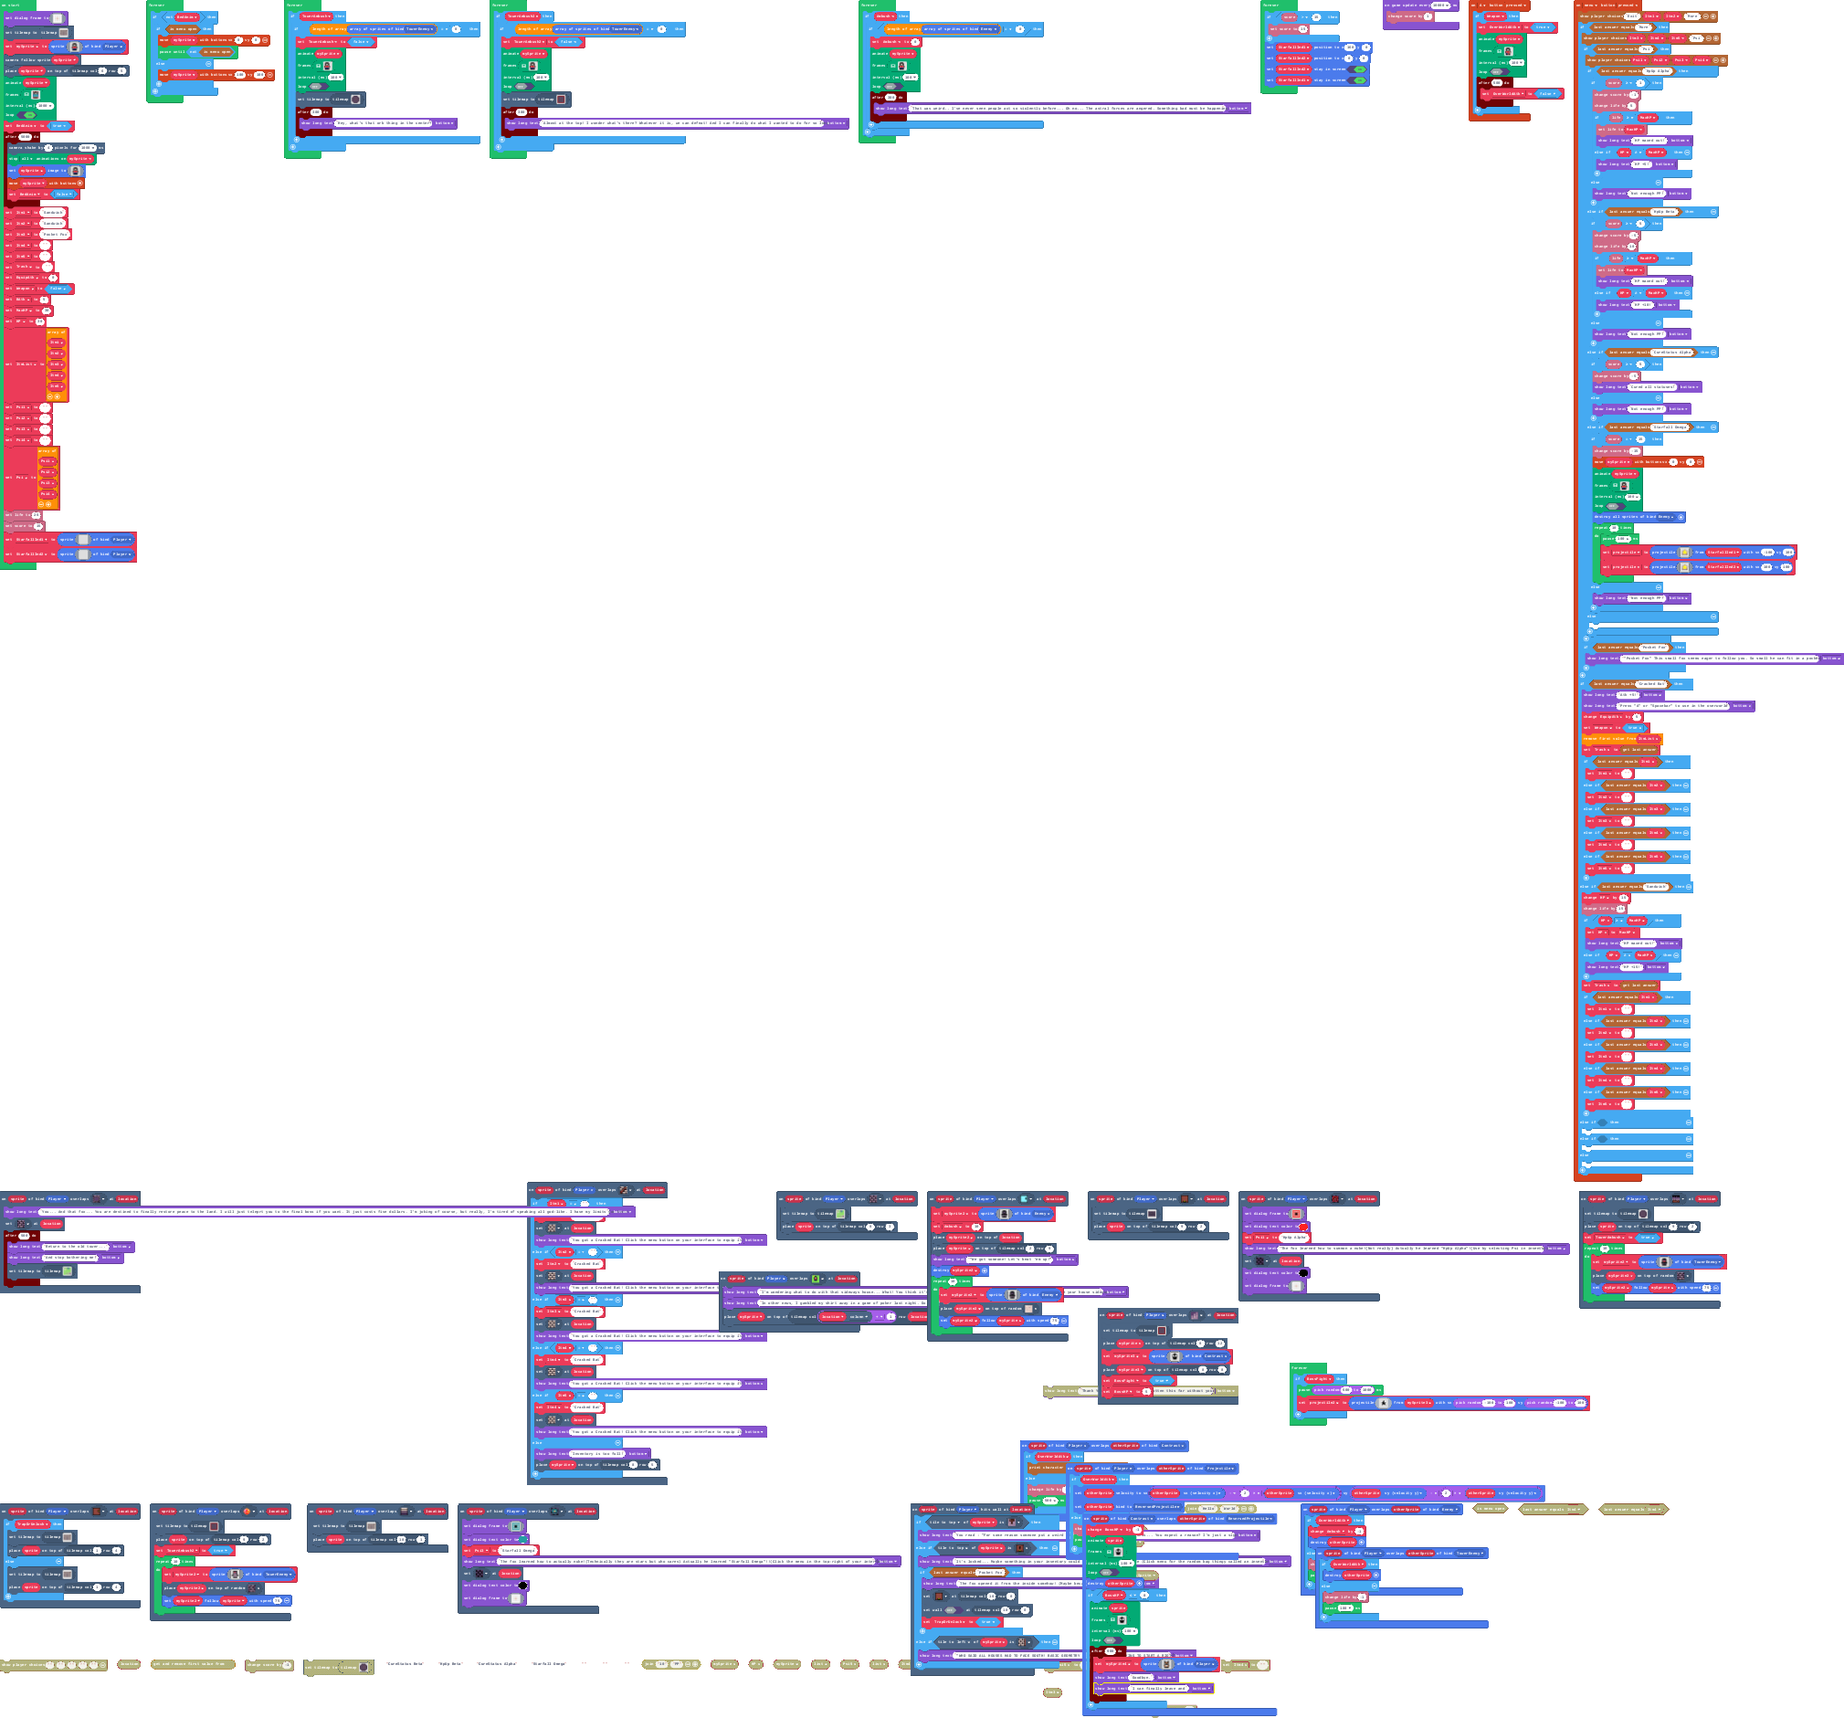
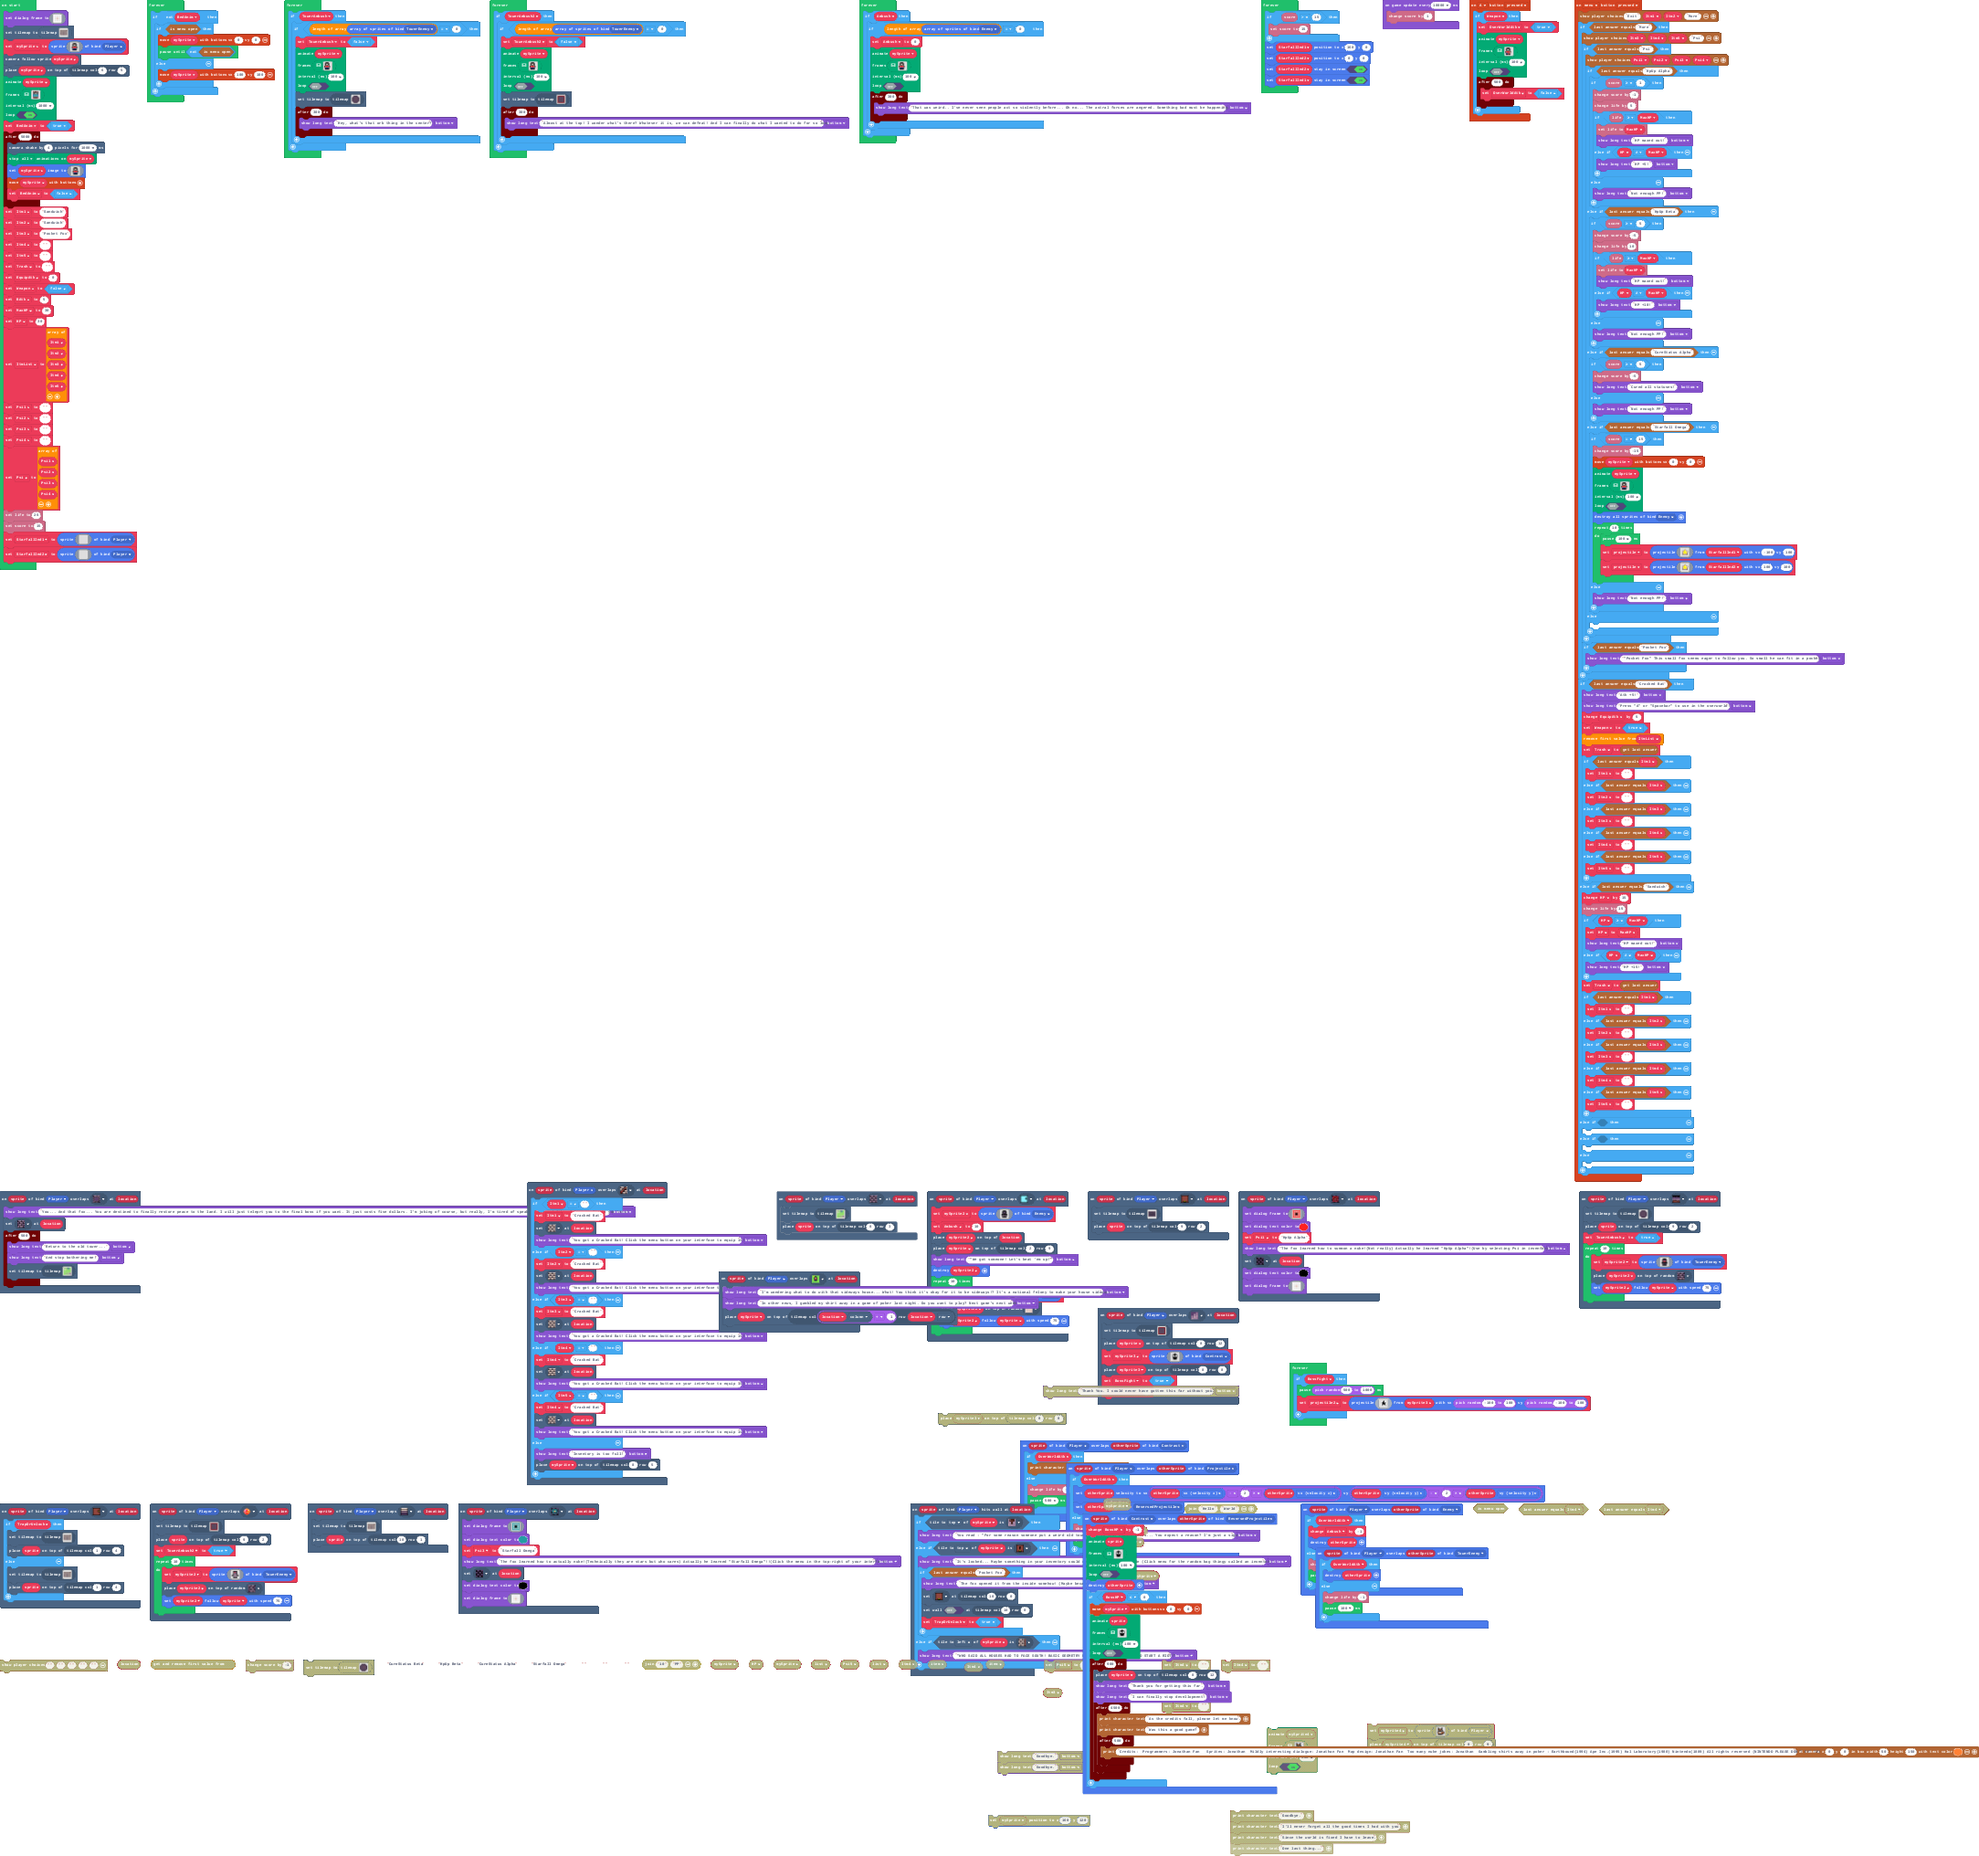
Update pxt.json, main.blocks, main.ts, tilemap.g.jres, tilemap.g.ts

Changed region(s): [[0.0, 0.0, 1.0, 1.0]]

diff --git a/main.ts b/main.ts
@@ -388,6 +388,7 @@ sprites.onOverlap(SpriteKind.Contrast, SpriteKind.ReversedProjectile, function (
     )
     sprites.destroy(otherSprite)
     if (BossHP <= 0) {
+        controller.moveSprite(mySprite, 0, 0)
         animation.runImageAnimation(
         sprite,
         [img`
@@ -565,20 +566,16 @@ sprites.onOverlap(SpriteKind.Contrast, SpriteKind.ReversedProjectile, function (
         false
         )
         timer.after(900, function () {
-            mySprite4 = sprites.create(img`
-                . f . . . . f . 
-                . f f . . f f . 
-                . f 4 f f 4 f . 
-                . f f 4 4 f f . 
-                . f 1 f f 1 f . 
-                . f f f f f f . 
-                f 4 1 1 1 1 4 f 
-                . f 4 1 1 4 f . 
-                . f 4 f f 4 f . 
-                . f f f f f f . 
-                `, SpriteKind.Player)
-            game.showLongText("Goodbye.", DialogLayout.Bottom)
-            game.showLongText("I can finally leave and ", DialogLayout.Bottom)
+            tiles.placeOnTile(mySprite, tiles.getTileLocation(8, 12))
+            game.showLongText("Thank you for getting this far.", DialogLayout.Bottom)
+            game.showLongText("I can finally stop devellopment!", DialogLayout.Bottom)
+            timer.after(4500, function () {
+                story.printCharacterText("As the credits fall, please let me know.")
+                story.printCharacterText("Was this a good game?")
+                timer.after(500, function () {
+                    story.printDialog("Credits:  Programmers: Jonathan Fan   Sprites: Jonathan  Mildly interesting dialogue: Jonathan Fan  Map design: Jonathan Fan  Too many nuke jokes: Jonathan  Gambling shirts away in poker : Earthbound(1994) Ape Inc.(1995) Hal Laboratory(1980) Nintendo(1889) All rights reserved (NINTENDO PLEASE DON'T SUE ME)", 0, 0, 150, 50, 4)
+                })
+            })
         })
     }
 })
@@ -906,7 +903,6 @@ let projectile2: Sprite = null
 let BossFight = false
 let mySprite3: Sprite = null
 let projectile: Sprite = null
-let mySprite4: Sprite = null
 let BossHP = 0
 let TowerAmbush2 = false
 let TowerAmbush = false

diff --git a/tilemap.g.ts b/tilemap.g.ts
@@ -588,8 +588,8 @@ namespace myTiles {
 .........................2222222..222222........
 22222.22222..............2222222...22222........
 22222.22222..............2222222....2222........
-22222.22222...............2..22....22222........
-22.22.............................22222.........
+22222.22222...............22.22....22222........
+22.22.......................2.....22222.........
 ..................................22222.........
 ......22222222..................2222222.........
 ......22222222...............2.2222222..........
